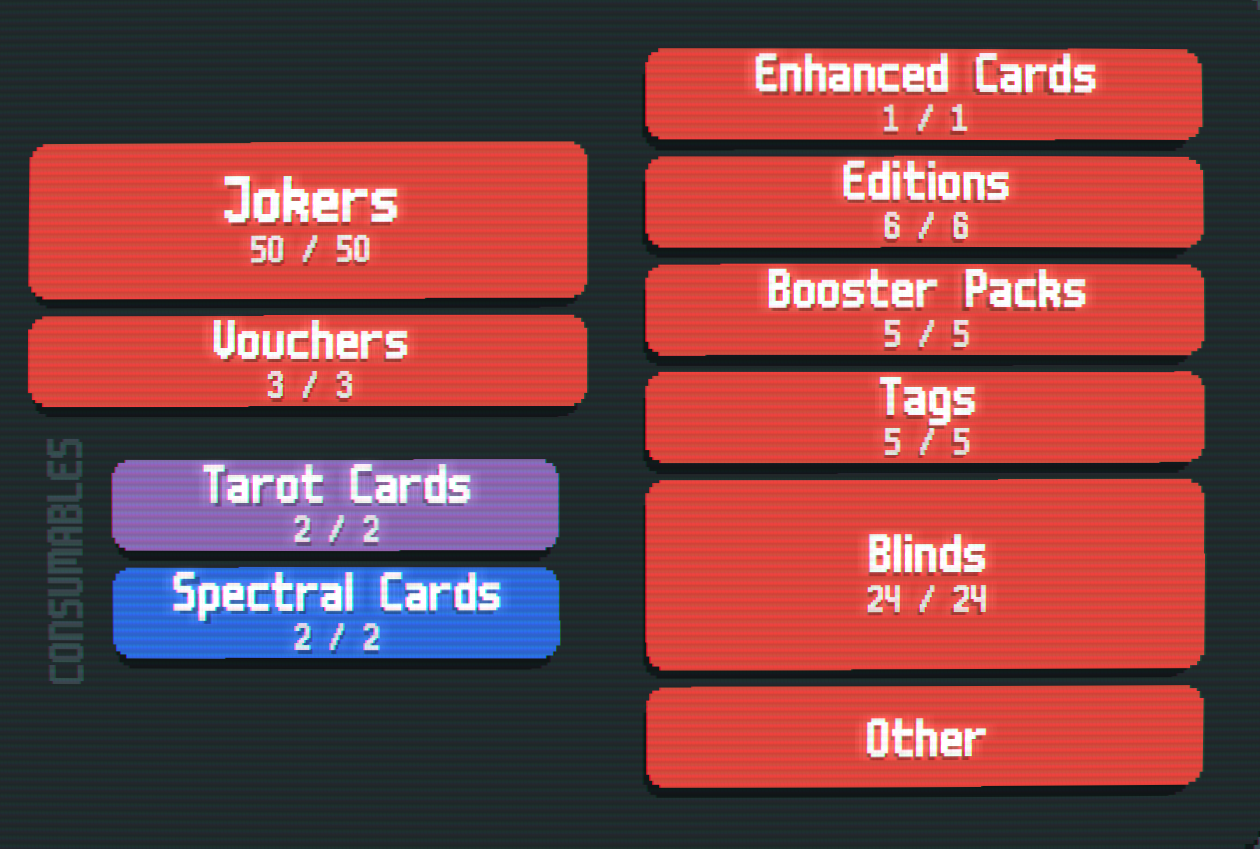
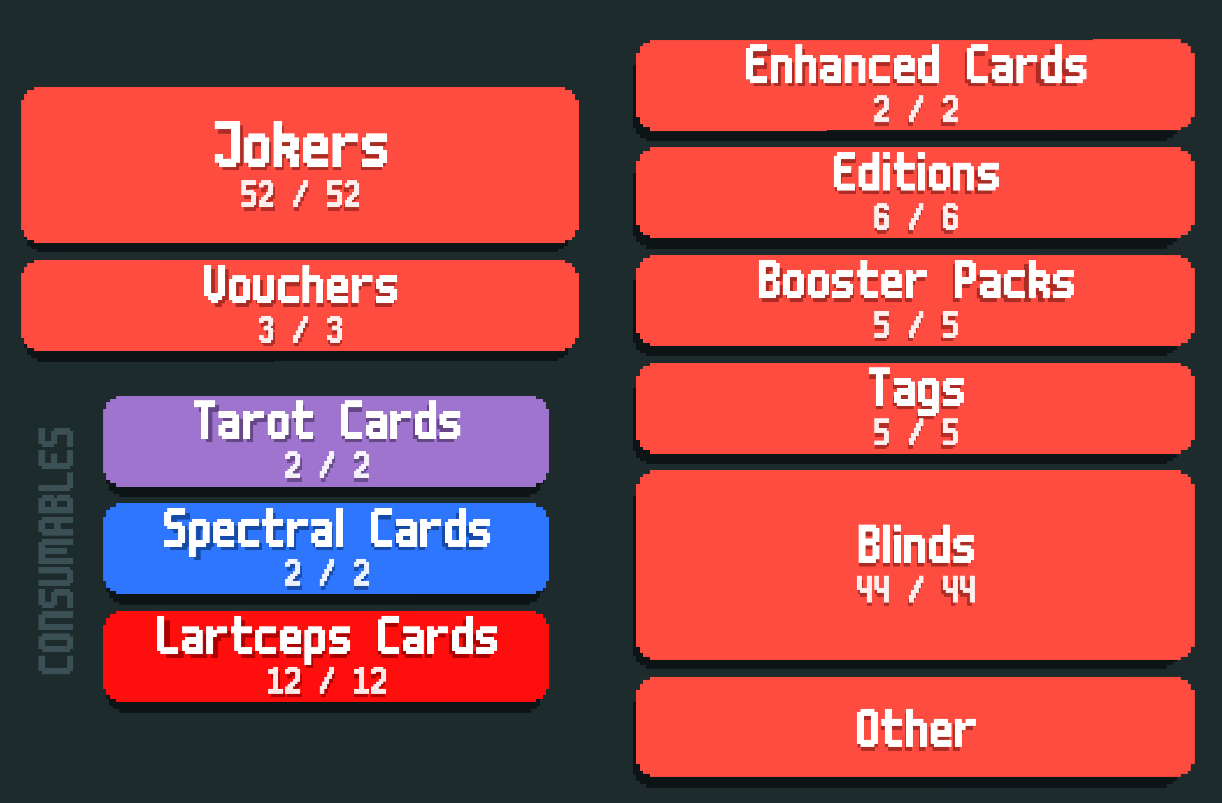
readme section

diff --git a/README.md b/README.md
@@ -1,31 +1,47 @@
+
+![alt text](image-2.png)
 # UNIK's Mod!
 An addon to Cryptid that adds a variety of features, some of which help and some of which are harmful.
-This is mainly balanced around the Mainline gameset of Cryptid.
-![50 Jokers, 1 enhanced, 3 vouchers, 6 editions, 5 boosters, 5 tags, 24 blinds 2 tarots, 2 spectrals and other stickers](image.png)
+This is mainly balanced around the Mainline gameset of Cryptid, and around various vanilla (or vanilla adjacent modded decks), where some challenge is provided.
+![52 Jokers, 1 enhanced, 3 vouchers, 6 editions, 5 boosters, 5 tags, 24 blinds 2 tarots, 2 spectrals and other stickers](image-1.png)
 ## Features (so far)
-- A total of 51 new Jokers are added, with 3 more fusions with a certain mod.
-- - 6 Common
-- - 12 Uncommon
-- - 5 Rare
-- - 10 Epic
-- - 4 Exotic
-- - 16 Cursed
-- 2 Tarots
-- 2 Spectrals
-- If Epic/Legendary Blinds are enabled (or playing a certain mod), enables Lartceps with 12 consumables, cards an Epic Blind forces you to choose.
-- 7 Stickers, 2 of which are featured in 2 Stakes
-- 2 Stakes:
-- - Persimmon Stake (Cards may be Triggering), comes after Orange Stake
-- - Shitty Stake (Jokers may be disposable), comes after Gold Stake
-- 5 Tags
-- 6 Editions, 5 of which are purely detrimental.
-- 24 Blinds, 
-- - 2 "normal" blinds
-- - 10 Finisher Blinds
-- - 12 Regular Blinds
-- - If enabled (or playing a certain mod), 13 - 14 Epic Blinds and 7 "Legendary" Blinds, extremely cruel blinds that are designed to make sure 
+- A total of 52 new Jokers are added, with 3 more fusions with a certain mod.
+- - 6 **Common**
+- - 12 **Uncommon**
+- - 6 **Rare**
+- - 10 **Epic** (Cryptid)
+- - 4 **Exotic**
+- - 16 **Cursed** (Detrimental Jokers from Cryptid)
+- 2 **Tarots**
+- 2 **Spectrals**
+- If **Epic/Legendary Blinds** are enabled (or playing a certain mod), enables **Lartceps** with 12 consumables, detrimental cards an Epic Blind forces you to choose.
+- 7 **Stickers**, 2 of which are featured in Stakes
+- 2 **Stakes:**
+- - **Persimmon Stake** (Cards may be Triggering), comes after Orange Stake
+- - **Shitty Stake** (Jokers may be disposable), comes after Gold Stake
+- 5 **Tags**
+- 6 **Editions**, 5 of which are purely detrimental.
+- 1 **Enhancement** (and "another" if **Epic/Legendary Blinds** are enabled)
+- 24 **Blinds**, 
+- - 2 **"normal" blinds**
+- - 10 **Finisher Blinds**
+- - 12 **Regular Blinds**
+- - If enabled (or playing a certain mod), 13 - 14 **Epic Blinds** and 7 **"Legendary" Blinds**, extremely cruel blinds that are designed to make sure you *suffer*.
 - Mainline balancing changes for some Cryptid Jokers, such as the infamous Canvas (Now legendary) and Oil Lamp (Immutable and increases values by x1.075).
 
-![Above but with Epic/Legendary blinds enabled](image-1.png)
+![menu with epic/legendary blinds](image.png)
 
-I'll focus on fixing some issues, adding more art and making more fusions and fusion art for that certain mod.
+I'll focus on fixing some issues that may arise, adding more art and making more fusions and fusion art for that certain mod.
+Due to the way it has been programmed, there may be some compatibility issues with other mods (although I have programmed some compatibility fixes for some mods)
+
+------
+Pretty much all artwork is done by me and most of the code is mainly of my conception, although various ideas on Blinds, Characters and code are derived from others
+
+### Credits
+- Kaeofthekae -  Lily (character)
+- Balatro goes Kino (Icyethics) - Inspiration for Epic Xenomorph Queen and Darth Vader
+- Aikoyori's Shennanigans (Aikoyori) - Inspiration for Epic Confrontation
+- CelesteCardCollection (Mod) - Inspiration for Legendary Golden Crown
+- Bunco (Mod) - Inspiration for Epic Sand
+- Ortalab (Shinku) - Inspiration for Epic Reed and Legendary Sword
+- Jen's Almanac -  Epic/Legendary Blinds inspiration + some code used for functionality such as Omegas and Blank Lartceps and shaders such as Dizzy and Bloated edition.
